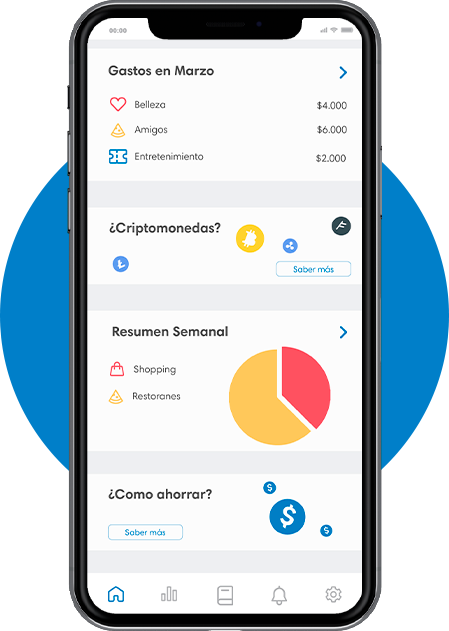
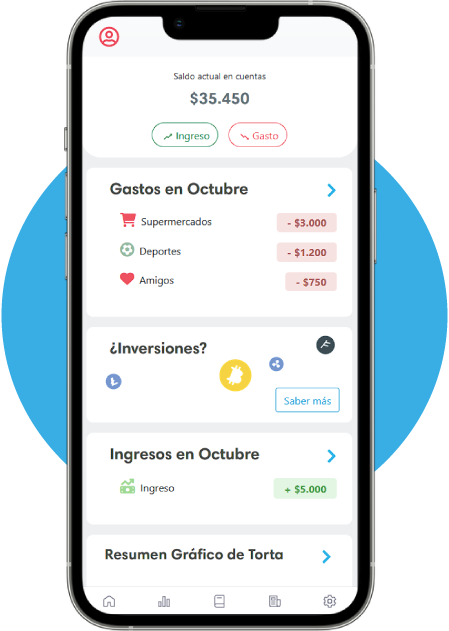
corrigo ortografía y actualizo imagenes

Changed region(s): [[0.0, 0.0, 1.0, 1.0], [0.5924, 0.7528, 0.7483, 0.9033], [0.7171, 0.6926, 0.7483, 0.7227]]

diff --git a/src/componentes/componentes-Contactos/SeccionContactos1.jsx b/src/componentes/componentes-Contactos/SeccionContactos1.jsx
@@ -97,11 +97,11 @@ const SeccionContactos1 = () => {
                     </div>
 
                     <div className="form-group my-3">
-                        <label htmlFor="options">¿De que quieres hablar? *</label>
+                        <label htmlFor="options">¿De que querés hablar? *</label>
                             <Select
                                 options = { opciones }
                                 onChange = { handleSelectChange }
-                                placeholder="Seleccione una opción"
+                                placeholder="Seleccioná una opción"
                             />
                     </div>
                     <div className="form-group my-3">
@@ -118,7 +118,7 @@ const SeccionContactos1 = () => {
                                     >
                         </textarea>
                         {errors.comentario?.type === 'required' && <p className='text-danger text-small d-block mb-2'>El campo comentario es requerido</p>}
-                        <small id="ayudamail" className="form-text text-muted">Ingrese los detalles de su solicitud. Un miembro de nuestro equipo de soporte le responderá lo antes posible. </small>                                 
+                        <small id="ayudamail" className="form-text text-muted">Ingresá los detalles de tu solicitud. Un miembro de nuestro equipo de soporte le responderá lo antes posible. </small>                                 
                     </div>
                     <div className='text-center'>
                         <input type="submit" value="Enviar" className='btn btn-primary' />

diff --git a/src/componentes/componentes-Home/SeccionHome4.jsx b/src/componentes/componentes-Home/SeccionHome4.jsx
@@ -11,7 +11,7 @@ const SeccionHome4 = () => {
                             <img src={imagenes.Logo2} alt="logo" className='logo2' />
                         </div>
                         <div className='col col-12 col-sm-12 col-md-6 col-lg-6 col-xl-6 col-xxl-6'>
-                            <p className='anunciop'>Mantente al tanto de todos tus movimiento mientras aprendes del mundo de finanzas</p>
+                            <p className='anunciop'>Mantenete al tanto de todos tus movimiento mientras aprendés del mundo de finanzas</p>
                         </div>
                         <div className='col col-12 col-sm-12 col-md-2 col-lg-2 col-xl-2 col-xxl-2'>
                             <button className='btn btn-primary btn-lg'>Saber más</button>

diff --git a/src/componentes/Contactos.jsx b/src/componentes/Contactos.jsx
@@ -16,7 +16,7 @@ const Contactos = () => {
                             </div>
                     </div>
                 </div>
-                <h2 className= "display-6 fw-bold mt-5 text-center title-contact" > ¡CONTACTATE CON NOSOTROS! </h2>
+                <h2 className= "display-6 fw-bold mt-5 text-center title-contact" > ¡CONTACTÁTE CON NOSOTROS! </h2>
             </div>
 
 
